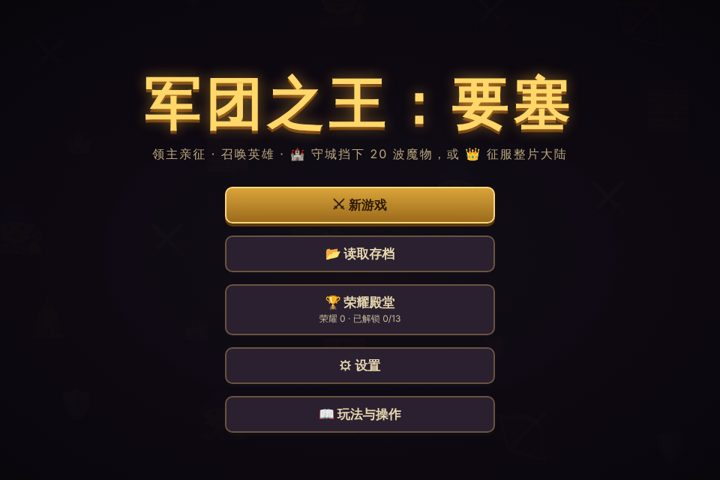
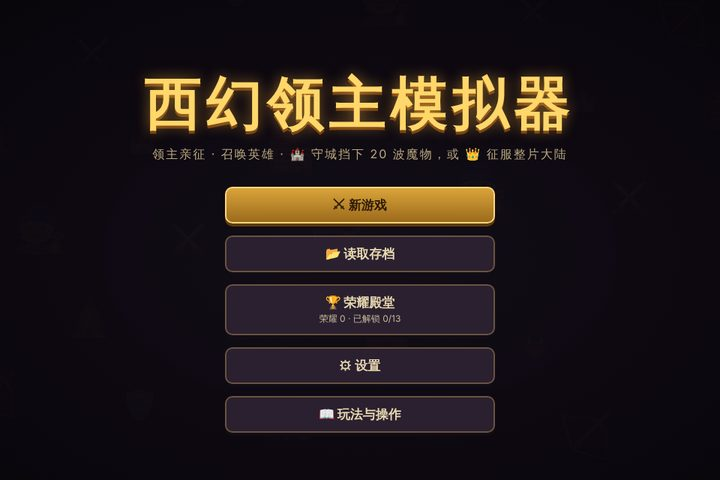
Sync the renamed game (v47) and refresh the project cover
Claude-Session: https://claude.ai/code/session_01FUu1DaZtYLvdWZNXeeAGUz

Changed region(s): [[0.1833, 0.125, 0.7944, 0.2812]]

diff --git a/source/projects/legion/game.js b/source/projects/legion/game.js
@@ -1,5 +1,5 @@
 'use strict';
-// ================= 军团之王：要塞 · 主逻辑（v3：领主 + 英雄召唤 + 多地图 + 双攻双防） =================
+// ================= 西幻领主模拟器 · 主逻辑（v3：领主 + 英雄召唤 + 多地图 + 双攻双防） =================
 const cvs = document.getElementById('game');
 const ctx = cvs.getContext('2d');
 const overlay = document.getElementById('overlay');
@@ -4206,7 +4206,7 @@ function showMenu() {
   const auto = saveInfo(lsGet('save-auto'));
   const canCont = auto && !auto.old;
   showOverlay(`<div class="panel menu">
-    <h1 class="title">军团之王：要塞</h1>
+    <h1 class="title">西幻领主模拟器</h1>
     <div class="subtitle">领主亲征 · 召唤英雄 · 🏰 守城挡下 ${MAX_WAVE} 波魔物，或 👑 征服整片大陆</div>
     <div class="mbtns">
       ${canCont ? `<div class="btn" data-act="menuContinue">▶ 继续游戏<small>${auto.text} · ${auto.when}</small></div>` : ''}

diff --git a/source/projects/legion/index.html b/source/projects/legion/index.html
@@ -3,8 +3,8 @@
 <head>
 <meta charset="utf-8">
 <meta name="viewport" content="width=device-width,initial-scale=1">
-<title>军团之王：要塞</title>
-<link rel="stylesheet" href="style.css?v=46">
+<title>西幻领主模拟器</title>
+<link rel="stylesheet" href="style.css?v=47">
 </head>
 <body>
 <canvas id="game"></canvas>
@@ -14,8 +14,8 @@
 <div id="hint"></div>
 <div id="guide" class="hidden"></div>
 <div id="overlay" class="hidden"></div>
-<script src="data.js?v=46"></script>
-<script src="icons.js?v=46"></script>
-<script src="game.js?v=46"></script>
+<script src="data.js?v=47"></script>
+<script src="icons.js?v=47"></script>
+<script src="game.js?v=47"></script>
 </body>
 </html>

diff --git a/source/projects/legion/data.js b/source/projects/legion/data.js
@@ -1,5 +1,5 @@
 'use strict';
-// ============ 军团之王：要塞 —— 所有数值都在这里，改这里就能调平衡 ============
+// ============ 西幻领主模拟器 —— 所有数值都在这里，改这里就能调平衡 ============
 //
 // 属性说明（所有单位通用）
 //   hp 生命  patk 物理攻击  matk 魔法攻击  pdef 物理防御  mdef 魔法防御
